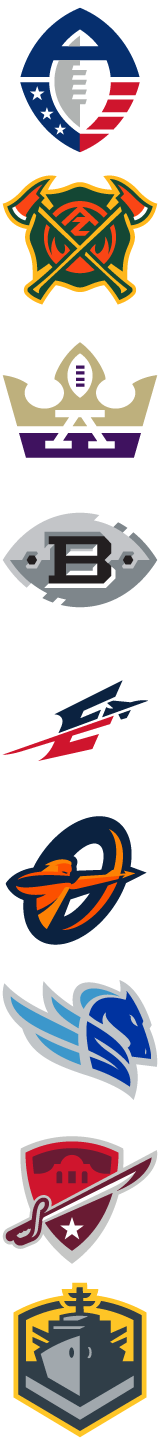
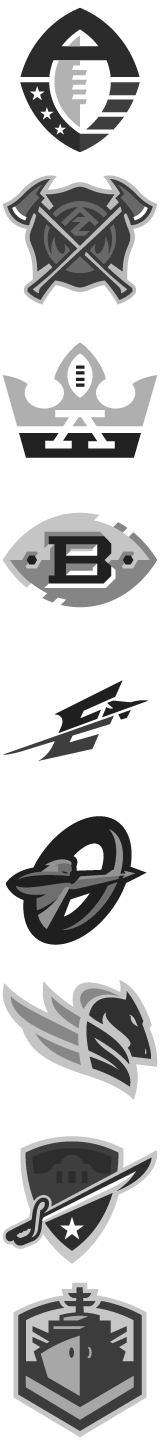
Make (almost) everything grayscale

diff --git a/src/scss/variables/_teams-nfl.scss b/src/scss/variables/_teams-nfl.scss
@@ -1,33 +1,33 @@
 $nfl-teams:
-	(league: "nfl", name: "cardinals", abbr: ARI, url: azcardinals, fg: #FFFFFF, bg: #97233F),
-	(league: "nfl", name: "falcons", abbr: ATL, url: falcons, fg: #A71930, bg: #000000),
-	(league: "nfl", name: "ravens", abbr: BAL, url: ravens, fg: #9E7C0C, bg: #241773),
-	(league: "nfl", name: "bills", abbr: BUF, url: buffalobills, fg: #C60C30, bg: #00338D),
-	(league: "nfl", name: "panthers", abbr: CAR, url: panthers, fg: #000000, bg: #0085CA),
-	(league: "nfl", name: "bears", abbr: CHI, url: chibears, fg: #C83803, bg: #0B162A),
-	(league: "nfl", name: "bengals", abbr: CIN, url: bengals, fg: #FB4F14, bg: #000000),
-	(league: "nfl", name: "browns", abbr: CLE, url: browns, fg: #311D00, bg: #FF3C00),
-	(league: "nfl", name: "cowboys", abbr: DAL, url: cowboys, fg: #B0B7BC, bg: #002244),
-	(league: "nfl", name: "broncos", abbr: DEN, url: denverbroncos, fg: #002244, bg: #FB4F14),
-	(league: "nfl", name: "lions", abbr: DET, url: detroitlions, fg: #B0B7BC, bg: #005A8B),
-	(league: "nfl", name: "packers", abbr: GB, url: greenbaypackers, fg: #FFB612, bg: #203731),
-	(league: "nfl", name: "texans", abbr: HOU, url: texans, fg: #A71930, bg: #03202F),
-	(league: "nfl", name: "colts", abbr: IND, url: colts, fg: #FFFFFF, bg: #002C5F),
-	(league: "nfl", name: "jaguars", abbr: JAX, url: jaguars, fg: #006778, bg: #000000),
-	(league: "nfl", name: "chiefs", abbr: KC, url: kansascitychiefs, fg: #FFB612, bg: #E31837),
-	(league: "nfl", name: "dolphins", abbr: MIA, url: miamidolphins, fg: #F58220, bg: #008E97),
-	(league: "nfl", name: "vikings", abbr: MIN, url: minnesotavikings, fg: #FFC62F, bg: #4F2683),
-	(league: "nfl", name: "patriots", abbr: NE, url: patriots, fg: #C60C30, bg: #002244),
-	(league: "nfl", name: "saints", abbr: NO, url: saints, fg: #9F8958, bg: #000000),
-	(league: "nfl", name: "giants", abbr: NYG, url: nygiants, fg: #A71930, bg: #0B2265),
-	(league: "nfl", name: "jets", abbr: NYJ, url: nyjets, fg: #FFFFFF, bg: #203731),
-	(league: "nfl", name: "raiders", abbr: OAK, url: oaklandraiders, fg: #000000, bg: #A5ACAF),
-	(league: "nfl", name: "eagles", abbr: PHI, url: eagles, fg: #A5ACAF, bg: #004953),
-	(league: "nfl", name: "steelers", abbr: PIT, url: steelers, fg: #FFB612, bg: #000000),
-	(league: "nfl", name: "rams", abbr: LA, url: losangelesrams, fg: #B3995D, bg: #002244),
-	(league: "nfl", name: "49ers", abbr: SF, url: 49ers, fg: #B3995D, bg: #AA0000),
-	(league: "nfl", name: "seahawks", abbr: SEA, url: seahawks, fg: #69BE28, bg: #002244),
-	(league: "nfl", name: "chargers", abbr: LAC, url: chargers, fg: #FFB612, bg: #0073CF),
-	(league: "nfl", name: "buccaneers", abbr: TB, url: buccaneers, fg: #34302B, bg: #D50A0A),
-	(league: "nfl", name: "titans", abbr: TEN, url: tennesseetitans, fg: #4B92DB, bg: #002244),
-	(league: "nfl", name: "redskins", abbr: WAS, url: redskins, fg: #FFB612, bg: #773141);
+	(league: "nfl", name: "cardinals", abbr: ARI, url: azcardinals, fg: grayscale(#FFFFFF), bg: grayscale(#97233F)),
+	(league: "nfl", name: "falcons", abbr: ATL, url: falcons, fg: grayscale(#A71930), bg: grayscale(#000000)),
+	(league: "nfl", name: "ravens", abbr: BAL, url: ravens, fg: grayscale(#9E7C0C), bg: grayscale(#241773)),
+	(league: "nfl", name: "bills", abbr: BUF, url: buffalobills, fg: grayscale(#C60C30), bg: grayscale(#00338D)),
+	(league: "nfl", name: "panthers", abbr: CAR, url: panthers, fg: grayscale(#000000), bg: grayscale(#0085CA)),
+	(league: "nfl", name: "bears", abbr: CHI, url: chibears, fg: grayscale(#C83803), bg: grayscale(#0B162A)),
+	(league: "nfl", name: "bengals", abbr: CIN, url: bengals, fg: grayscale(#FB4F14), bg: grayscale(#000000)),
+	(league: "nfl", name: "browns", abbr: CLE, url: browns, fg: grayscale(#311D00), bg: grayscale(#FF3C00)),
+	(league: "nfl", name: "cowboys", abbr: DAL, url: cowboys, fg: grayscale(#B0B7BC), bg: grayscale(#002244)),
+	(league: "nfl", name: "broncos", abbr: DEN, url: denverbroncos, fg: grayscale(#002244), bg: grayscale(#FB4F14)),
+	(league: "nfl", name: "lions", abbr: DET, url: detroitlions, fg: grayscale(#B0B7BC), bg: grayscale(#005A8B)),
+	(league: "nfl", name: "packers", abbr: GB, url: greenbaypackers, fg: grayscale(#FFB612), bg: grayscale(#203731)),
+	(league: "nfl", name: "texans", abbr: HOU, url: texans, fg: grayscale(#A71930), bg: grayscale(#03202F)),
+	(league: "nfl", name: "colts", abbr: IND, url: colts, fg: grayscale(#FFFFFF), bg: grayscale(#002C5F)),
+	(league: "nfl", name: "jaguars", abbr: JAX, url: jaguars, fg: grayscale(#006778), bg: grayscale(#000000)),
+	(league: "nfl", name: "chiefs", abbr: KC, url: kansascitychiefs, fg: grayscale(#FFB612), bg: grayscale(#E31837)),
+	(league: "nfl", name: "dolphins", abbr: MIA, url: miamidolphins, fg: grayscale(#F58220), bg: grayscale(#008E97)),
+	(league: "nfl", name: "vikings", abbr: MIN, url: minnesotavikings, fg: grayscale(#FFC62F), bg: grayscale(#4F2683)),
+	(league: "nfl", name: "patriots", abbr: NE, url: patriots, fg: grayscale(#C60C30), bg: grayscale(#002244)),
+	(league: "nfl", name: "saints", abbr: NO, url: saints, fg: grayscale(#9F8958), bg: grayscale(#000000)),
+	(league: "nfl", name: "giants", abbr: NYG, url: nygiants, fg: grayscale(#A71930), bg: grayscale(#0B2265)),
+	(league: "nfl", name: "jets", abbr: NYJ, url: nyjets, fg: grayscale(#FFFFFF), bg: grayscale(#203731)),
+	(league: "nfl", name: "raiders", abbr: OAK, url: oaklandraiders, fg: grayscale(#000000), bg: grayscale(#A5ACAF)),
+	(league: "nfl", name: "eagles", abbr: PHI, url: eagles, fg: grayscale(#A5ACAF), bg: grayscale(#004953)),
+	(league: "nfl", name: "steelers", abbr: PIT, url: steelers, fg: grayscale(#FFB612), bg: grayscale(#000000)),
+	(league: "nfl", name: "rams", abbr: LA, url: losangelesrams, fg: grayscale(#B3995D), bg: grayscale(#002244)),
+	(league: "nfl", name: "49ers", abbr: SF, url: 49ers, fg: grayscale(#B3995D), bg: grayscale(#AA0000)),
+	(league: "nfl", name: "seahawks", abbr: SEA, url: seahawks, fg: grayscale(#69BE28), bg: grayscale(#002244)),
+	(league: "nfl", name: "chargers", abbr: LAC, url: chargers, fg: grayscale(#FFB612), bg: grayscale(#0073CF)),
+	(league: "nfl", name: "buccaneers", abbr: TB, url: buccaneers, fg: grayscale(#34302B), bg: grayscale(#D50A0A)),
+	(league: "nfl", name: "titans", abbr: TEN, url: tennesseetitans, fg: grayscale(#4B92DB), bg: grayscale(#002244)),
+	(league: "nfl", name: "redskins", abbr: WAS, url: redskins, fg: grayscale(#FFB612), bg: grayscale(#773141));

diff --git a/src/scss/variables/_teams-aaf.scss b/src/scss/variables/_teams-aaf.scss
@@ -5,21 +5,21 @@ $aaf-teams: (
 	name: "aaf",
 	abbr: "AAF",
 	url: "AAFB",
-	color-1: #012B66,
-	color-2: #C02C27,
-	color-3: #A9ACAB,
-	fg: #A9ACAB,
-	bg: #012B66,
+	color-1: grayscale(#012B66),
+	color-2: grayscale(#C02C27),
+	color-3: grayscale(#A9ACAB),
+	fg: grayscale(#A9ACAB),
+	bg: grayscale(#012B66),
 ),(
 	league: "aaf",
 	name: "Hotshots",
 	abbr: "ARI",
 	url: "ARZHotshots",
-	color-1: #1B4734,
-	color-2: #F7B844,
-	color-3: #ED4434,
-	fg: #F7B844,
-	bg: #1B4734,
+	color-1: grayscale(#1B4734),
+	color-2: grayscale(#F7B844),
+	color-3: grayscale(#ED4434),
+	fg: grayscale(#F7B844),
+	bg: grayscale(#1B4734),
 	eliminated:  true,
 	champion:  false
 ),(
@@ -27,11 +27,11 @@ $aaf-teams: (
 	name: "Legends",
 	abbr: "ATL",
 	url: "ATLLegends",
-	color-1: #481D69,
-	color-2: #C5B783,
-	color-3: #FFFFFF,
-	fg: #C5B783,
-	bg: #481D69,
+	color-1: grayscale(#481D69),
+	color-2: grayscale(#C5B783),
+	color-3: grayscale(#FFFFFF),
+	fg: grayscale(#C5B783),
+	bg: grayscale(#481D69),
 	eliminated:  true,
 	champion:  false
 ),(
@@ -39,11 +39,11 @@ $aaf-teams: (
 	name: "Iron",
 	abbr: "BIR",
 	url: "BHIron",
-	color-1: #000000,
-	color-2: #7C878E,
-	color-3: #C7C9C7,
-	fg: #C7C9C7,
-	bg: #000000,
+	color-1: grayscale(#000000),
+	color-2: grayscale(#7C878E),
+	color-3: grayscale(#C7C9C7),
+	fg: grayscale(#C7C9C7),
+	bg: grayscale(#000000),
 	eliminated:  true,
 	champion:  false
 ),(
@@ -51,11 +51,11 @@ $aaf-teams: (
 	name: "Express",
 	abbr: "MEM",
 	url: "MemExpress",
-	color-1: #C82E2F,
-	color-2: #0C2340,
-	color-3: #FFFFFF,
-	fg: #0C2340,
-	bg: #C82E2F,
+	color-1: grayscale(#C82E2F),
+	color-2: grayscale(#0C2340),
+	color-3: grayscale(#FFFFFF),
+	fg: grayscale(#0C2340),
+	bg: grayscale(#C82E2F),
 	eliminated:  true,
 	champion:  false
 ),(
@@ -63,11 +63,11 @@ $aaf-teams: (
 	name: "Apollos",
 	abbr: "ORL",
 	url: "OrlApollos",
-	color-1: #0C2340,
-	color-2: #EE4E34,
-	color-3: #F1813A,
-	fg: #0C2340,
-	bg: #F1813A,
+	color-1: grayscale(#0C2340),
+	color-2: grayscale(#EE4E34),
+	color-3: grayscale(#F1813A),
+	fg: grayscale(#0C2340),
+	bg: grayscale(#F1813A),
 	eliminated:  true,
 	champion:  false
 ),(
@@ -75,11 +75,11 @@ $aaf-teams: (
 	name: "Stallions",
 	abbr: "SL",
 	url: "SLCStallions",
-	color-1: #0032A0,
-	color-2: #4698CA,
-	color-3: #C1C6C8,
-	fg: #4698CA,
-	bg: #0032A0,
+	color-1: grayscale(#0032A0),
+	color-2: grayscale(#4698CA),
+	color-3: grayscale(#C1C6C8),
+	fg: grayscale(#4698CA),
+	bg: grayscale(#0032A0),
 	eliminated:  true,
 	champion:  false
 ),(
@@ -87,11 +87,11 @@ $aaf-teams: (
 	name: "Commanders",
 	abbr: "SA",
 	url: "CommandersSA",
-	color-1: #651C32,
-	color-2: #C82E2F,
-	color-3: #C7C9C7,
-	fg: #C7C9C7,
-	bg: #651C32,
+	color-1: grayscale(#651C32),
+	color-2: grayscale(#C82E2F),
+	color-3: grayscale(#C7C9C7),
+	fg: grayscale(#C7C9C7),
+	bg: grayscale(#651C32),
 	eliminated:  true,
 	champion:  false
 ),(
@@ -99,11 +99,11 @@ $aaf-teams: (
 	name: "Fleet",
 	abbr: "SD",
 	url: "SDFleet",
-	color-1: #333F48,
-	color-2: #F9C747,
-	color-3: #A2AAAD,
-	fg: #333F48,
-	bg: #F9C747,
+	color-1: grayscale(#333F48),
+	color-2: grayscale(#F9C747),
+	color-3: grayscale(#A2AAAD),
+	fg: grayscale(#333F48),
+	bg: grayscale(#F9C747),
 	eliminated:  true,
 	champion:  false
 );

diff --git a/src/scss/variables/_teams-cfl.scss b/src/scss/variables/_teams-cfl.scss
@@ -1,10 +1,10 @@
 $cfl-teams:
-	(league: "cfl", name: "lions", abbr: "BC", url: "BC_Lions", fg: #FFFFFF, bg: #97233F),
-	(league: "cfl", name: "stampeders", abbr: "CGY", url: "stampeders", fg: #A71930, bg: #000000),
-	(league: "cfl", name: "eskimos", abbr: "EDM", url: "eskimos", fg: #9E7C0C, bg: #241773),
-	(league: "cfl", name: "tigercats", abbr: "HAM", url: "ticats", fg: #C60C30, bg: #00338D),
-	(league: "cfl", name: "alouettes", abbr: "MTL", url: "alouettes", fg: #000000, bg: #0085CA),
-	(league: "cfl", name: "redblacks", abbr: "OTT", url: "redblacks", fg: #C83803, bg: #0B162A),
-	(league: "cfl", name: "roughriders", abbr: "SSK", url: "riderville", fg: #FB4F14, bg: #000000),
-	(league: "cfl", name: "argonauts", abbr: "TOR", url: "argonauts", fg: #311D00, bg: #FF3C00),
-	(league: "cfl", name: "bluebombers", abbr: "WPG", url: "winnipegbluebombers", fg: #311D00, bg: #FF3C00);
+	(league: "cfl", name: "lions", abbr: "BC", url: "BC_Lions", fg: grayscale(#FFFFFF), bg: grayscale(#97233F)),
+	(league: "cfl", name: "stampeders", abbr: "CGY", url: "stampeders", fg: grayscale(#A71930), bg: grayscale(#000000)),
+	(league: "cfl", name: "eskimos", abbr: "EDM", url: "eskimos", fg: grayscale(#9E7C0C), bg: grayscale(#241773)),
+	(league: "cfl", name: "tigercats", abbr: "HAM", url: "ticats", fg: grayscale(#C60C30), bg: grayscale(#00338D)),
+	(league: "cfl", name: "alouettes", abbr: "MTL", url: "alouettes", fg: grayscale(#000000), bg: grayscale(#0085CA)),
+	(league: "cfl", name: "redblacks", abbr: "OTT", url: "redblacks", fg: grayscale(#C83803), bg: grayscale(#0B162A)),
+	(league: "cfl", name: "roughriders", abbr: "SSK", url: "riderville", fg: grayscale(#FB4F14), bg: grayscale(#000000)),
+	(league: "cfl", name: "argonauts", abbr: "TOR", url: "argonauts", fg: grayscale(#311D00), bg: grayscale(#FF3C00)),
+	(league: "cfl", name: "bluebombers", abbr: "WPG", url: "winnipegbluebombers", fg: grayscale(#311D00), bg: grayscale(#FF3C00));

diff --git a/src/scss/variables/_link-flair.scss b/src/scss/variables/_link-flair.scss
@@ -1,7 +1,7 @@
 $link-flair: (
 	name: "game thread",
 	class: "game-thread",
-	color: #429876,
+	color: grayscale(#429876),
 	bold: true,
 ),(
 	name: "highlight",
@@ -15,7 +15,7 @@ $link-flair: (
 ),(
 	name: "trash talk",
 	class: "trash-talk",
-	color: #81CEDF,
+	color: grayscale(#81CEDF),
 ),(
 	name: "original content",
 	class: "original-content",
@@ -25,7 +25,7 @@ $link-flair: (
 ),(
 	name: "Announcement",
 	class: "announcement",
-	color: #E74C3C,
+	color: grayscale(#E74C3C),
 	bold: true,
 ),(
 	name: "News",
@@ -45,7 +45,7 @@ $link-flair: (
 ),(
 	name: "AMA",
 	class: "ama",
-	color: #87D37C,
+	color: grayscale(#87D37C),
 	bold: true,
 ),(
 	name: "AMA Ended :(",

diff --git a/src/scss/modules/_teams-header.scss b/src/scss/modules/_teams-header.scss
@@ -24,7 +24,7 @@
 		top: $h-reddit-nav;
 		height: 80px;
 		width: 200px;
-		background: $aaf-blue;
+		background: grayscale($aaf-blue);
 		z-index: 2;
 		cursor: pointer;
 		transition: .3s ease-out;
@@ -41,7 +41,7 @@
 		&::before,
 		&::after{
 			transition: 1s ease-out;
-			background: lighten($aaf-blue, 10);
+			background: grayscale(lighten($aaf-blue, 10));
 		}
 	}
 	&::before{
@@ -136,7 +136,7 @@
 		$url: map-get($team, url);
 		$bg: map-get($team, bg);
 		& a[href="/r/#{$url}"]::after, a[data-href-url="/r/#{$url}"]{
-			background: $bg;
+			background: grayscale($bg);
 		}
 	}
 }

diff --git a/src/scss/states/_nightmode.scss b/src/scss/states/_nightmode.scss
@@ -1,8 +1,8 @@
 $resnm-bg: #222;
 $resnm-fg: gray;
-$resnm-header: #666660;
+$resnm-header: grayscale(#666660);
 $resnm-header-fg: color(grey,60);
-$resnm-teamlinks-bg: #2F2E31;
+$resnm-teamlinks-bg: grayscale(#2F2E31);
 
 .res-nightmode {
     .side {
@@ -90,6 +90,6 @@ $resnm-teamlinks-bg: #2F2E31;
         }
     }
     .content .linklisting .thing .title .domain a, .content .linklisting .thing .title>.title {
-        color: lighten($aaf-blue, 20);
+        color: grayscale(lighten($aaf-blue, 20));
     }
 }

diff --git a/src/scss/themes/_basic-hero.scss b/src/scss/themes/_basic-hero.scss
@@ -2,7 +2,7 @@ $color-1: #3F195F;
 $color-2: #F7B744;
 
 html{
-	background-color: $color-1;
+	background-color: grayscale($color-1);
 }
 html::after{
 	content: "";
@@ -25,7 +25,7 @@ html::before{
 	right: 0;
 	z-index: -1;
 	height: 100%;
-	background-color: $color-2;
+	background-color: grayscale($color-2);
 }
 #header{
 	background: #fff;

diff --git a/src/scss/modules/_user-flair.scss b/src/scss/modules/_user-flair.scss
@@ -132,8 +132,8 @@ $pos-100:  0%;
 			}
 		}
 		.flair-#{to-lower-case($name)}.flair-official + .author {
-			background: $bg;
-			color: $fg;
+			background: grayscale($bg);
+			color: grayscale($fg);
 		}
 	} @else{
 		$flair-rank: "secondary";

diff --git a/src/scss/modules/_link-flair.scss b/src/scss/modules/_link-flair.scss
@@ -50,7 +50,7 @@ $pos-100:  0%;
 		@if($color or $bold){
 			.title{
 				@if($color){
-					color: $color !important;
+					color: grayscale($color) !important;
 				}
 				@if($bold){
 					font-weight: bold !important;

diff --git a/src/scss/modules/_rankers-flair.scss b/src/scss/modules/_rankers-flair.scss
@@ -15,7 +15,7 @@
 		display: none !important;
 	}
 	+ .author{
-		color: red;
+		color: grayscale(red);
 	}
 	@each $team in $aaf-teams{
 		$name: map-get($team, name);
